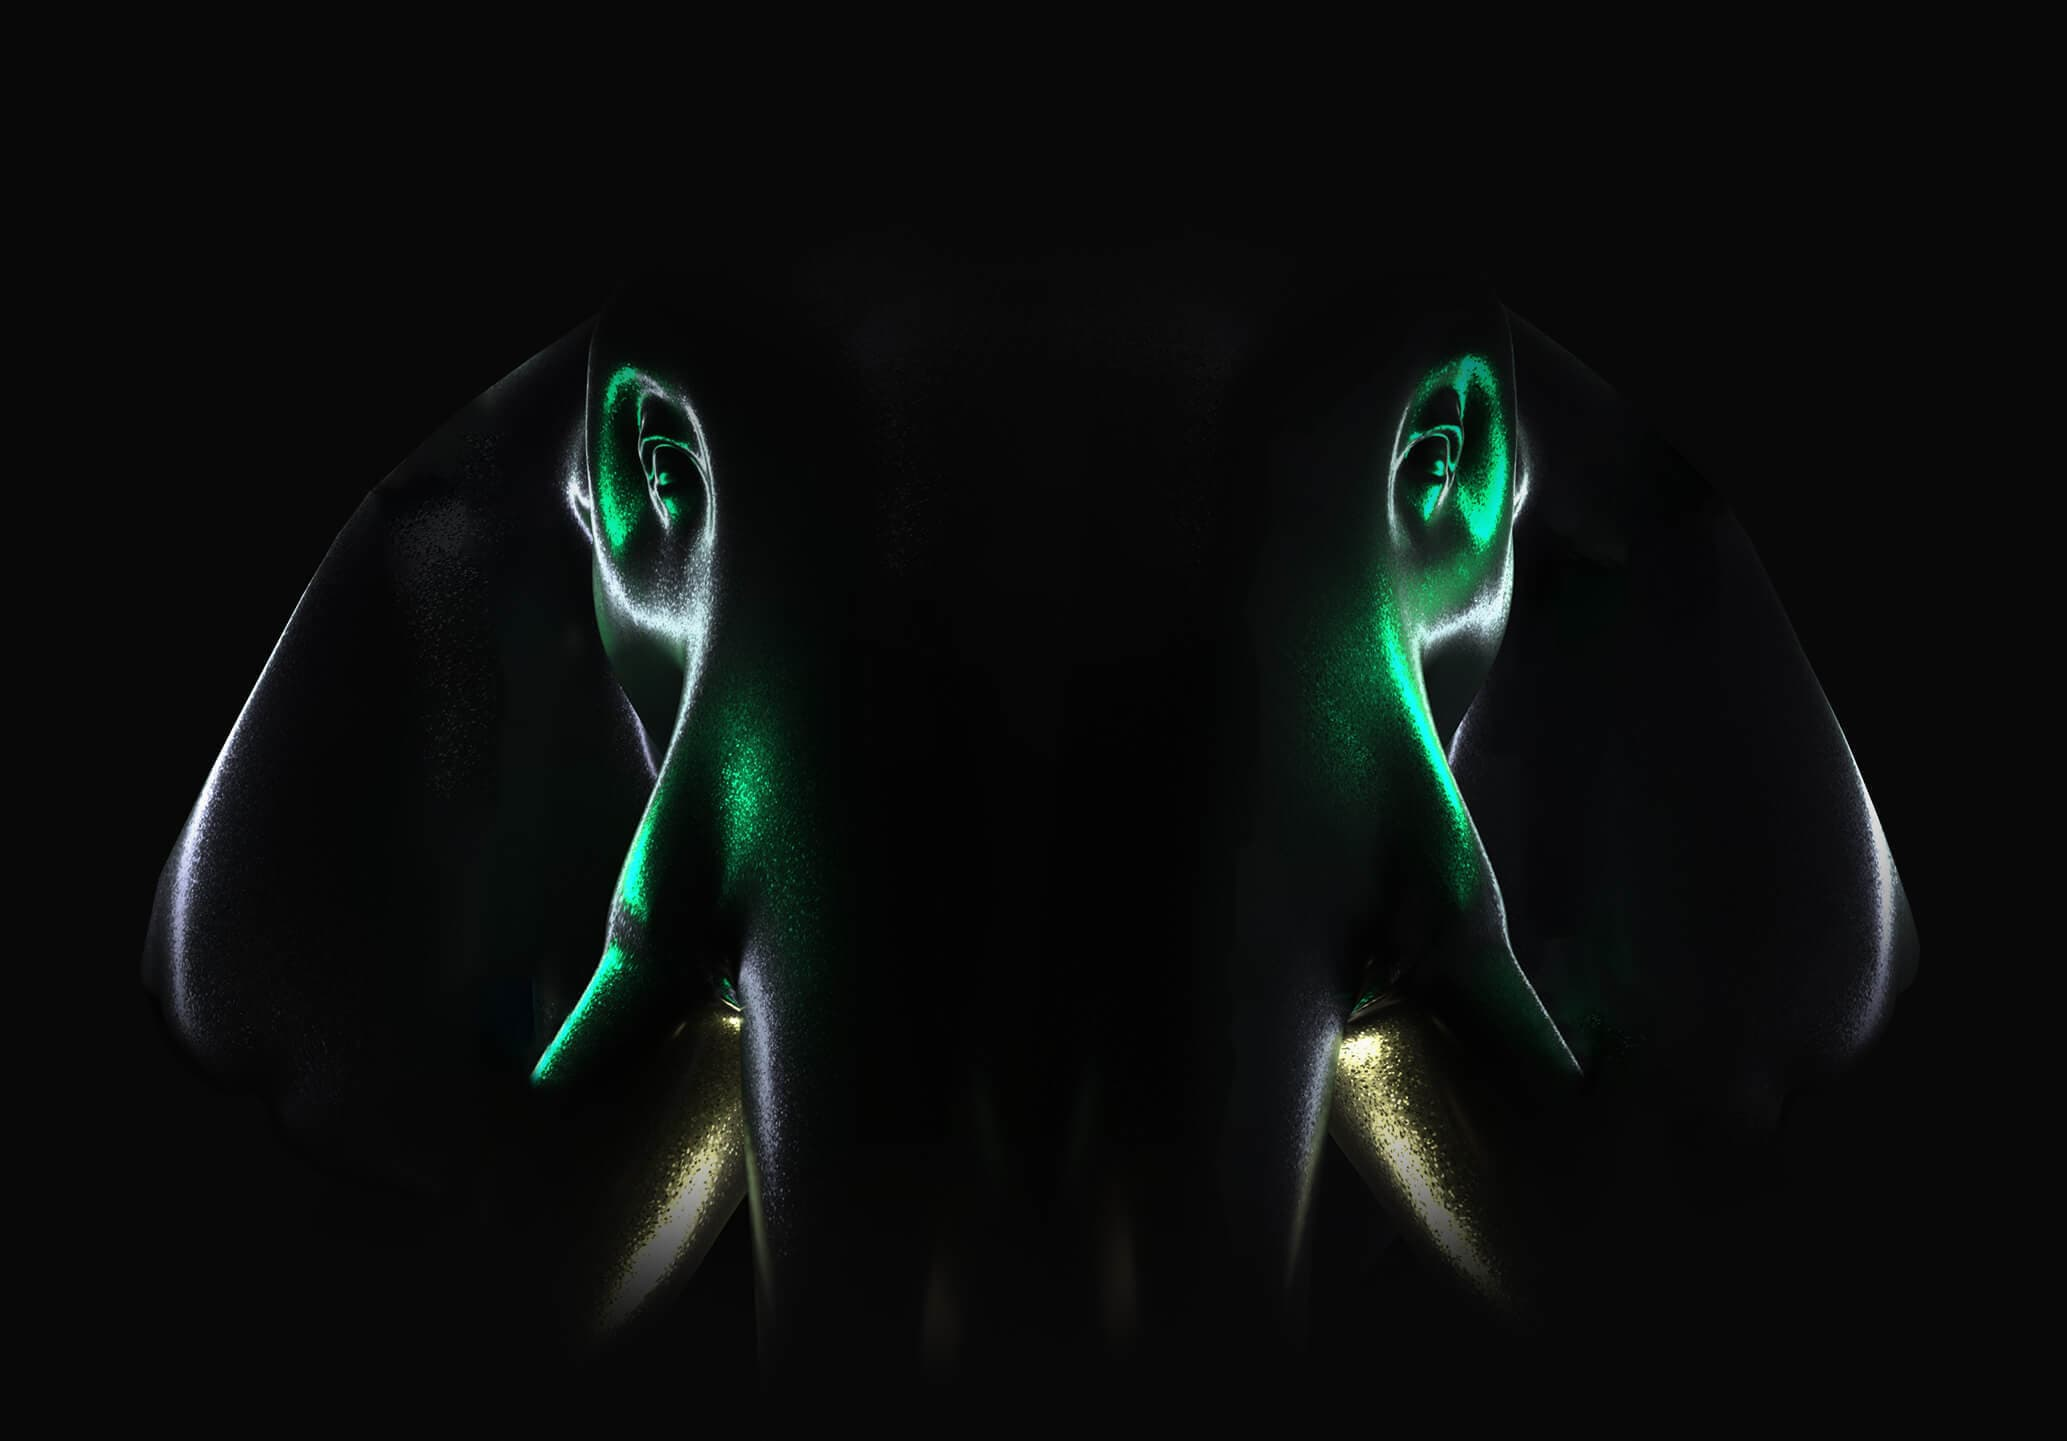
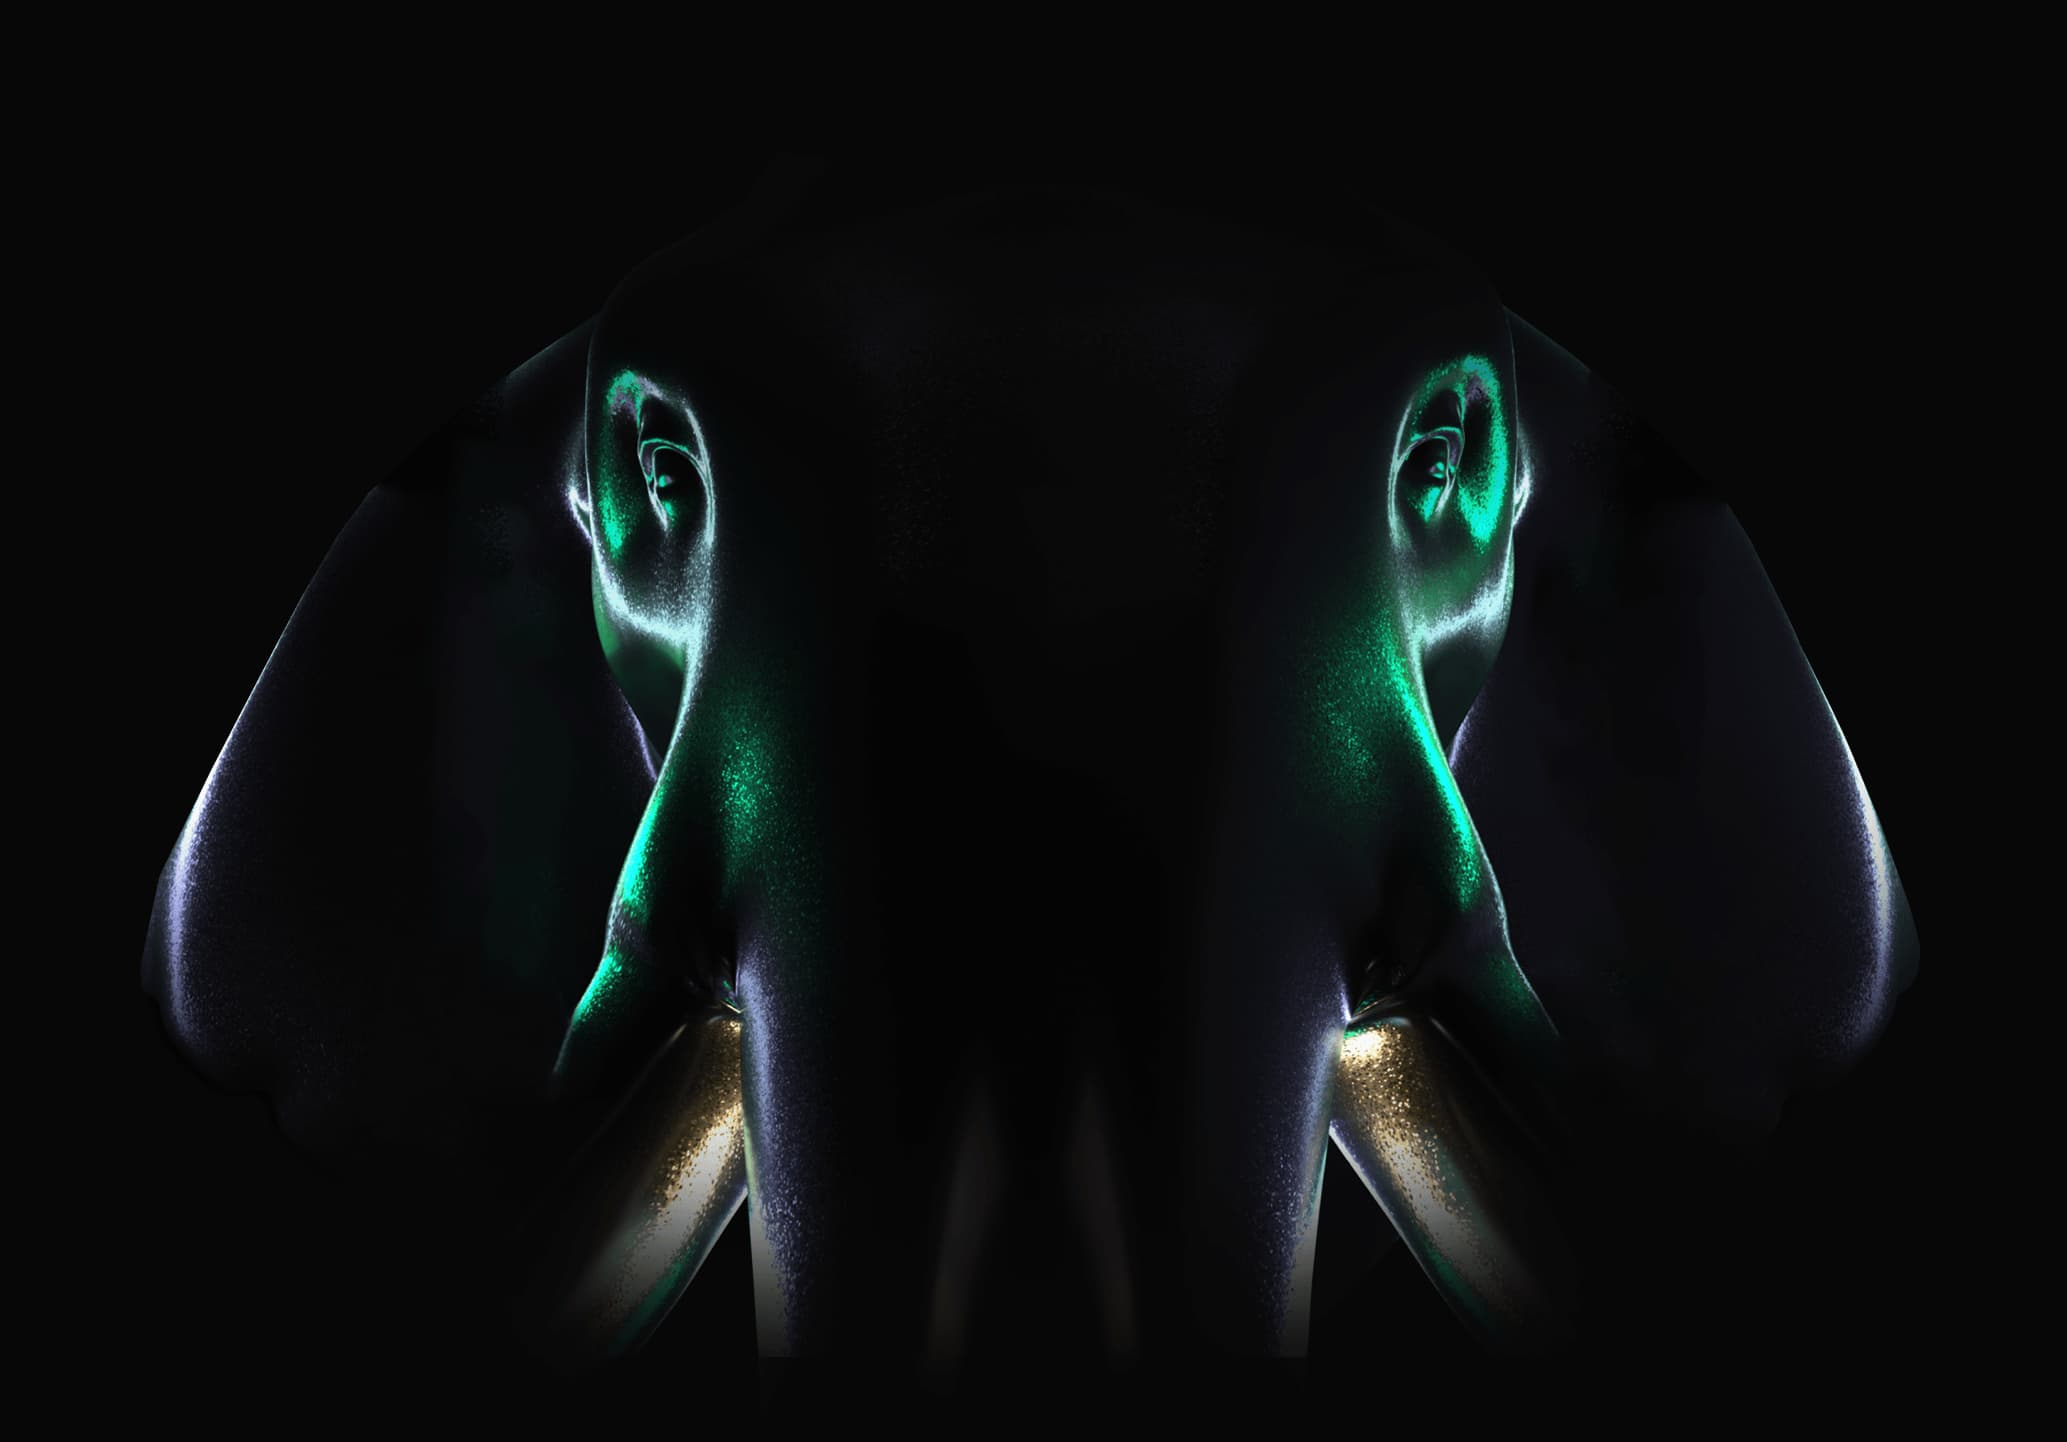
feat: add email field animation and update elephant assets

diff --git a/src/components/shared/subscription-form/subscription-form.jsx b/src/components/shared/subscription-form/subscription-form.jsx
@@ -5,12 +5,12 @@ import { motion, AnimatePresence } from 'framer-motion';
 import PropTypes from 'prop-types';
 import { useState } from 'react';
 import { useCookie, useLocation } from 'react-use';
+import { Alignment, Fit, Layout, useRive } from 'rive-react';
 
 import Button from 'components/shared/button';
 import useLocalStorage from 'hooks/use-local-storage';
 import { doNowOrAfterSomeTime, emailRegexp, sendHubspotFormData } from 'utils/forms';
 
-import LuminousBack from './icons/luminous-back.inline.svg';
 import CheckIcon from './icons/subscription-form-check.inline.svg';
 import ErrorIcon from './icons/subscription-form-error.inline.svg';
 import SendIcon from './icons/subscription-form-send.inline.svg';
@@ -63,6 +63,16 @@ const SubscriptionForm = ({
     hutk: hubspotutk,
     pageUri: href,
   };
+
+  const { RiveComponent } = useRive({
+    src: '/animations/input-lines.riv',
+    autoplay: true,
+    stateMachines: 'State Machine 1',
+    layout: new Layout({
+      fit: Fit.FitWidth,
+      alignment: Alignment.TopCenter,
+    }),
+  });
 
   const handleSubmit = (event) => {
     event.preventDefault();
@@ -156,10 +166,7 @@ const SubscriptionForm = ({
         onChange={handleInputChange}
       />
 
-      <LuminousBack
-        className="pointer-events-none absolute -top-10 left-1/2 z-10 h-auto w-[115%] -translate-x-1/2 xs:-top-4 xs:w-[120%]"
-        aria-hidden="true"
-      />
+      <RiveComponent className="pointer-events-none absolute -top-4 left-1/2 z-10 h-auto w-[120%] -translate-x-1/2 xs:-top-4 xs:top-0 [&>*]:!min-h-[360px]" />
 
       {/* Error message */}
       <AnimatePresence>

diff --git a/src/constants/seo-data.js b/src/constants/seo-data.js
@@ -44,8 +44,8 @@ export default {
       'Join us virtually on March 22nd, 23rd, and 24th to learn about Neon and how to build better with Serverless Postgres.',
     imagePath: '/images/social-previews/developer-days-1.jpg',
     preloadAssets: [
-      'https://s3.us-west-2.amazonaws.com/secure.notion-static.com/432eecef-c63a-4099-88b5-6626549046f5/elephant-defuse.jpg?X-Amz-Algorithm=AWS4-HMAC-SHA256&X-Amz-Content-Sha256=UNSIGNED-PAYLOAD&X-Amz-Credential=AKIAT73L2G45EIPT3X45%2F20230223%2Fus-west-2%2Fs3%2Faws4_request&X-Amz-Date=20230223T091134Z&X-Amz-Expires=86400&X-Amz-Signature=d369311f5e53c0a98c1ec8ebc80f52ca20a0a1bcb71a95262d622c52f49a8ae7&X-Amz-SignedHeaders=host&response-content-disposition=filename%3D%22elephant-defuse.jpg%22&x-id=GetObject',
-      'https://s3.us-west-2.amazonaws.com/secure.notion-static.com/af00448b-936c-443e-a5e5-76af0fc9ebb4/elephant-depth.jpg?X-Amz-Algorithm=AWS4-HMAC-SHA256&X-Amz-Content-Sha256=UNSIGNED-PAYLOAD&X-Amz-Credential=AKIAT73L2G45EIPT3X45%2F20230223%2Fus-west-2%2Fs3%2Faws4_request&X-Amz-Date=20230223T090723Z&X-Amz-Expires=86400&X-Amz-Signature=9eecff7a6db433c892a177939e0e2d6450627b6934feba0331dfc1624caea9aa&X-Amz-SignedHeaders=host&response-content-disposition=filename%3D%22elephant-depth.jpg%22&x-id=GetObject',
+      '/images/developer-days-2/elephant-defuse.jpg',
+      '/images/developer-days-2/elephant-depth.jpg',
     ],
   },
   branching: {

diff --git a/src/components/pages/dev-days-2/email-registration-step/email-registration-step.jsx b/src/components/pages/dev-days-2/email-registration-step/email-registration-step.jsx
@@ -144,7 +144,11 @@ const EmailRegistrationStep = ({ onSuccessCallback }) => {
           </CursorTrackingWrapper>
           <Script src="/static/elephant-webgl-scene.js" type="module" strategy="afterInteractive" />
         </div>
-        <Image className="hidden xl:block" src={ElephantIllustration} alt="Elephant illustration" />
+        <Image
+          className="remove-image-loading-visual hidden xl:block"
+          src={ElephantIllustration}
+          alt="Elephant illustration"
+        />
       </motion.div>
     </>
   );

diff --git a/src/app/developer-days-2/page.jsx b/src/app/developer-days-2/page.jsx
@@ -41,7 +41,7 @@ const DeveloperDays2Page = () => {
 
     return (
       <Container
-        className="relative -mt-8 flex min-h-[inherit] items-center gap-12 lg:flex-wrap lg:justify-center lg:gap-4"
+        className="relative -mt-12 flex min-h-[inherit] items-center gap-12 lg:flex-wrap lg:justify-center lg:gap-4"
         size="lg"
       >
         {content}

diff --git a/src/components/shared/header/header.jsx b/src/components/shared/header/header.jsx
@@ -16,7 +16,7 @@ const Header = () => (
         <Logo />
       </Link>
       <div className="flex items-center space-x-7">
-        <p className="font-mono text-base font-light text-white sm:hidden">
+        <p className="font-mono text-[15px] font-light text-white sm:hidden">
           Join us at 10:30AM PT, March 26
         </p>
         <Button
